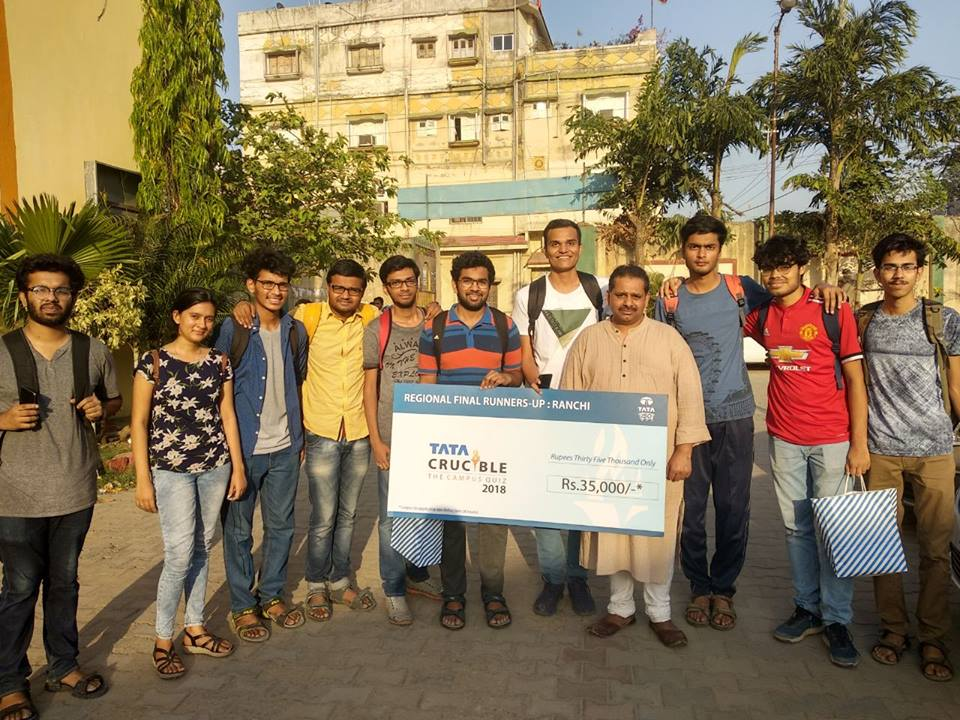
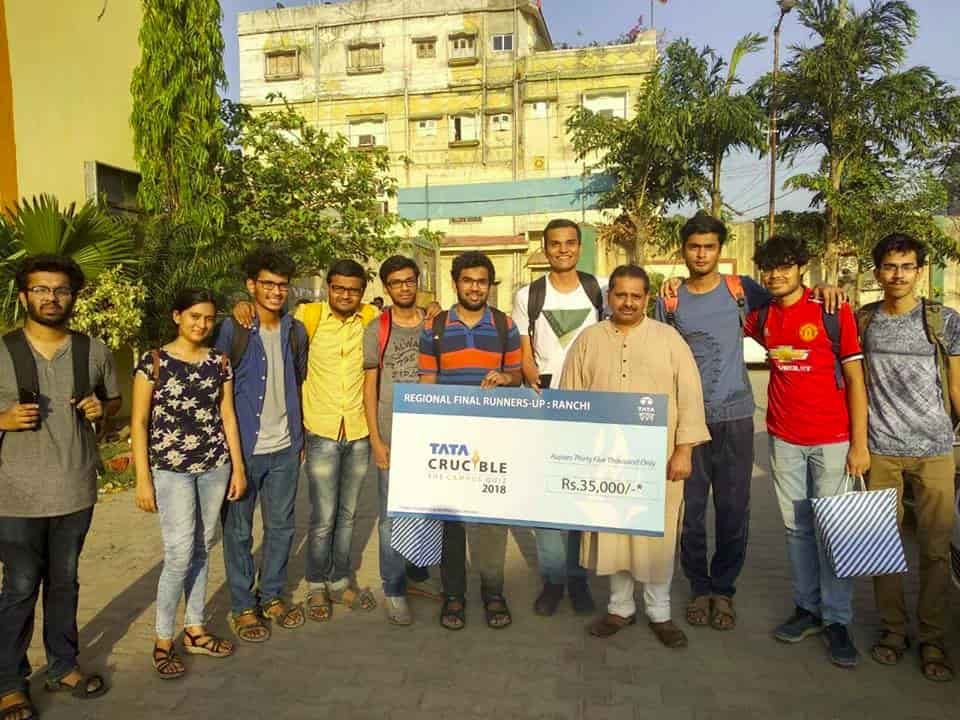
Compressed mechismu and arka images

diff --git a/clubs/cyber.html b/clubs/cyber.html
@@ -244,43 +244,32 @@
           <div class="card flex-md-row mb-4 shadow-sm h-md-250">
             <div class="card-body d-flex flex-column align-items-start">
                 <h3 class="mb-0">
-                <a class="text-dark" href="#">  <strong class="d-inline-block mb-2 text-primary">Winter of code</strong>
+                <a class="text-dark" href="https://woc.cyberlabs.club/">  <strong class="d-inline-block mb-2 text-primary">Winter of code</strong>
           </a>
               </h3>
-              <div class="mb-1 text-muted">Jan 23</div>
-              <p class="card-text mb-auto">Lorem ipsum dolor sit amet, consectetur adipisicing elit. Culpa, vel eius
-                fugiat hic dolorem facilis?</p>
-              <a role="button" class="btn btn-info btn-md"  href="#">Know more</a> 
+              <div class="mb-1 text-muted">Dec 10, 2018 - Jan 10, 2019</div>
+              <p class="card-text mb-auto">Winter of Code is a platform where technology enthusiasts come together and contribute to tools that solve real-life problems. With the efforts of the whole Cyber Labs team, we are proud to announce WoC, the first Winter Open Source Hackathon of IIT(ISM) Dhanbad.</p>
+              <a role="button" class="btn btn-info btn-md"  href="https://woc.cyberlabs.club/">Know more</a> 
  
             </div>
-            <svg class="bd-placeholder-img card-img-right flex-auto d-none d-lg-block" width="250" height="250" xmlns="http://www.w3.org/2000/svg"
-              preserveAspectRatio="xMidYMid slice" focusable="false" role="img" aria-label="Placeholder: Thumbnail">
-              <title>Placeholder</title>
-              <rect fill="#EAEAEA" width="100%" height="100%" /><text fill="#EAEAEA" dy=".3em" x="50%" y="50%">Thumbnail</text><image href="../img/woc1.jpg" width="100%" height="100%">
-              </image>
-            </svg>
+            <img class="bd-placeholder-img card-img-right flex-auto d-none d-lg-block" width="150" height="300" src="../img/woc1.jpg">
+              
           </div>
         </div>
         <div class="col-md-6">
           <div class="card flex-md-row mb-4 shadow-sm h-md-250">
             <div class="card-body d-flex flex-column align-items-start">
                 <h3 class="mb-0">
-                <a class="text-dark" href="#">  <strong class="d-inline-block mb-2 text-danger">Workshops</strong>
+                <a class="text-dark" href="https://www.facebook.com/labscyber/posts/1621075154664979">  <strong class="d-inline-block mb-2 text-danger">Workshops</strong>
           </a>
               </h3>
-              <div class="mb-1 text-muted">Feb 23</div>
-              <p class="card-text mb-auto">Lorem ipsum dolor sit amet, consectetur adipisicing elit. Culpa, vel eius
-                fugiat hic dolorem facilis?</p>
-              <a role="button" class="btn btn-info btn-md"  href="#">Know more</a> 
+              <div class="mb-1 text-muted">Oct 16, 2018</div>
+              <p class="card-text mb-auto">Cyber Labs organized its annual introductory workshops to introduce you all to all the fields we recruit for, namely, Web Development, Android App Development, Machine Learning & Deep Learning, Hardware, Computer Graphics and Information Security.</p>
+              <a role="button" class="btn btn-info btn-md"  href="https://www.facebook.com/labscyber/posts/1621075154664979">Know more</a> 
  
             </div>
-            <svg class="bd-placeholder-img card-img-right flex-auto d-none d-lg-block" width="250" height="250" xmlns="http://www.w3.org/2000/svg"
-              preserveAspectRatio="xMidYMid slice" focusable="false" role="img" aria-label="Placeholder: Thumbnail">
-              <title>Placeholder</title>
-              <rect fill="white" width="100%" height="100%" /><text fill="#eceeef" dy=".3em" x="50%" y="50%">Thumbnail</text><image href="../img/workshop.png" width="104%" height="111.8%">
-              </image>
-            </svg>
-          </div>
+            <img class="bd-placeholder-img card-img-right flex-auto d-none d-lg-block" width="150" height="300" src="../img/workshop.png">
+        </div>
         </div>
       </div>
 

diff --git a/clubs/mechismu.html b/clubs/mechismu.html
@@ -241,7 +241,7 @@
               <a role="button" class="btn btn-info btn-md"  href="#">Know more</a> 
  
             </div>
-            <img class="bd-placeholder-img card-img-right flex-auto d-none d-lg-block" width="250" height="250" src="images/1.png">
+            <img class="bd-placeholder-img card-img-right flex-auto d-none d-lg-block" width="250" height="250" src="images/1.jpg">
             </img>
           </div>
         </div>
@@ -258,7 +258,7 @@
               <a role="button" class="btn btn-info btn-md"  href="#">Know more</a> 
  
             </div>
-            <img class="bd-placeholder-img card-img-right flex-auto d-none d-lg-block" width="250" height="250" src="images/3.png">
+            <img class="bd-placeholder-img card-img-right flex-auto d-none d-lg-block" width="250" height="250" src="images/3.jpg">
             </img>
           </div>
         </div>

diff --git a/README.md b/README.md
@@ -26,7 +26,7 @@
 <li>Chayanika Sangh - Everything missing</li>
 <li>LitC - Everything except logo missing</li>
 <li>Book Club - Everything except logo missing</li>
-<li>Cyberlabs - Everything missing</li>
+<li>Cyberlabs - E-mail ID and contact no., Club gallery photos and description and links missing</li>
 <li>RoboISM - Everything missing</li>
 <li>Mechismu - photo of faculty advisor and student cordinators, description of gallery photos, FAQ missing</li>
 <li>E-cell - contact info of faculty advisor and student coordinators, achievements, gallery photo descriptions, faq missing</li>
